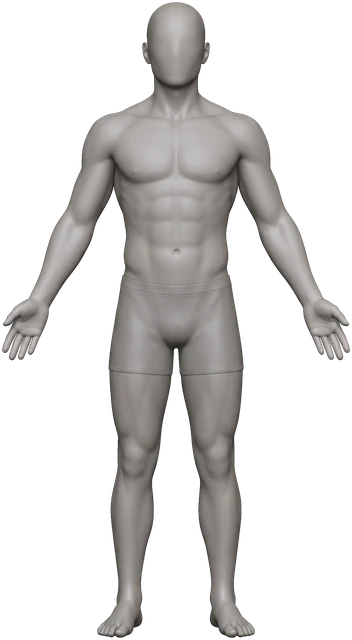
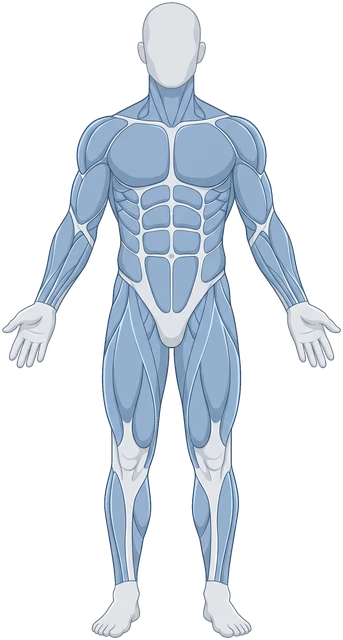
Mensurations : carte des muscles bleu ardoise, homme et femme
Houari valide le style des apps de musculation : groupes musculaires en formes lisses
bleu ardoise, tête lisse sans visage ni cheveux, aucune couleur de peau. Générés avec
Gemini, détourés, WebP 1x 2x 3x. Les dix traits de mesure sont recalés sur le nouveau
contour. Le mannequin gris est archivé (version_grise).

Claude-Session: https://claude.ai/code/session_01MBUGLkxL9svd2kQBWm6F75

diff --git a/components/yoroi/v2/progres/Silhouette.tsx b/components/yoroi/v2/progres/Silhouette.tsx
@@ -1,6 +1,6 @@
 /**
  * Corps illustre avec les mensurations posees autour (30 octobre 2026, remplace l'ancien bonhomme gris).
- * Mannequin d'anatomie lisse, un seul ton gris pierre, sans visage ni couleur de peau, pour que personne ne se sente exclu.
+ * Carte des muscles bleu ardoise (style des apps de musculation), sans visage, sans cheveux ni couleur de peau, pour que personne ne se sente exclu.
  * Il suit le genre du profil : homme, ou femme (assets/corps/mensurations, generes avec Gemini).
  * Chaque mesure a son trait en pointilles pose sur le corps et une etiquette sobre :
  * le nom, la valeur et l'ecart avec la fois d'avant. En saisie, toucher une etiquette la selectionne.
@@ -21,42 +21,42 @@ type Pt = [number, number];
 type Zone = { l: Pt; r: Pt; creux: number; side: 'left' | 'right' };
 type Corps = { src: ImageSourcePropType; w: number; h: number; zones: Record<ViewKey, Zone> };
 
-// Coordonnees en pixels de l'illustration detouree (homme 1312 x 2388, femme 1322 x 2388),
-// relevees sur le contour reel du mannequin.
+// Coordonnees en pixels de l'illustration detouree (homme 1290 x 2407, femme 1292 x 2430),
+// relevees sur le contour reel de la carte des muscles.
 const HOMME: Corps = {
   src: require('@/assets/corps/mensurations/homme.webp'),
-  w: 1312,
-  h: 2388,
+  w: 1290,
+  h: 2407,
   zones: {
-    neck: { l: [578, 335], r: [734, 335], creux: 14, side: 'right' },
-    shoulders: { l: [310, 610], r: [1003, 610], creux: -30, side: 'left' },
-    chest: { l: [428, 660], r: [882, 660], creux: 30, side: 'left' },
-    arm: { l: [896, 717], r: [1040, 713], creux: 12, side: 'right' },
+    neck: { l: [563, 345], r: [727, 345], creux: 14, side: 'right' },
+    shoulders: { l: [294, 590], r: [996, 590], creux: -30, side: 'left' },
+    chest: { l: [420, 680], r: [884, 680], creux: 30, side: 'left' },
+    arm: { l: [895, 747], r: [1022, 743], creux: 12, side: 'right' },
     // Avant-bras : sous le coude, au plus large, sur le meme bras que le tour de bras, trait perpendiculaire au bras
-    forearm: { l: [986, 941], r: [1130, 899], creux: 12, side: 'right' },
-    waist: { l: [474, 870], r: [839, 870], creux: 26, side: 'left' },
-    navel: { l: [466, 940], r: [846, 940], creux: 28, side: 'right' },
-    hips: { l: [420, 1270], r: [894, 1270], creux: 34, side: 'left' },
-    thigh: { l: [680, 1410], r: [900, 1410], creux: 16, side: 'right' },
-    calf: { l: [416, 1895], r: [570, 1895], creux: 14, side: 'left' },
+    forearm: { l: [948, 965], r: [1090, 909], creux: 12, side: 'right' },
+    waist: { l: [456, 895], r: [835, 895], creux: 26, side: 'left' },
+    navel: { l: [446, 965], r: [845, 965], creux: 28, side: 'right' },
+    hips: { l: [396, 1290], r: [894, 1290], creux: 34, side: 'left' },
+    thigh: { l: [668, 1420], r: [901, 1420], creux: 16, side: 'right' },
+    calf: { l: [397, 1900], r: [565, 1900], creux: 14, side: 'left' },
   },
 };
 
 const FEMME: Corps = {
   src: require('@/assets/corps/mensurations/femme.webp'),
-  w: 1322,
-  h: 2388,
+  w: 1292,
+  h: 2430,
   zones: {
-    neck: { l: [592, 340], r: [730, 340], creux: 12, side: 'right' },
-    shoulders: { l: [340, 615], r: [983, 615], creux: -30, side: 'left' },
-    chest: { l: [452, 690], r: [871, 690], creux: 30, side: 'left' },
-    arm: { l: [898, 714], r: [1018, 710], creux: 12, side: 'right' },
-    forearm: { l: [993, 944], r: [1119, 906], creux: 12, side: 'right' },
-    waist: { l: [495, 885], r: [827, 885], creux: 24, side: 'left' },
-    navel: { l: [472, 970], r: [851, 970], creux: 28, side: 'right' },
-    hips: { l: [400, 1265], r: [922, 1265], creux: 34, side: 'left' },
-    thigh: { l: [688, 1405], r: [917, 1405], creux: 16, side: 'right' },
-    calf: { l: [422, 1900], r: [570, 1900], creux: 14, side: 'left' },
+    neck: { l: [567, 380], r: [726, 380], creux: 12, side: 'right' },
+    shoulders: { l: [319, 600], r: [974, 600], creux: -30, side: 'left' },
+    chest: { l: [438, 690], r: [860, 690], creux: 30, side: 'left' },
+    arm: { l: [874, 762], r: [1006, 758], creux: 12, side: 'right' },
+    forearm: { l: [948, 976], r: [1080, 924], creux: 12, side: 'right' },
+    waist: { l: [477, 920], r: [816, 920], creux: 24, side: 'left' },
+    navel: { l: [455, 990], r: [838, 990], creux: 28, side: 'right' },
+    hips: { l: [386, 1290], r: [907, 1290], creux: 34, side: 'left' },
+    thigh: { l: [670, 1420], r: [908, 1420], creux: 16, side: 'right' },
+    calf: { l: [399, 1900], r: [561, 1900], creux: 14, side: 'left' },
   },
 };
 
